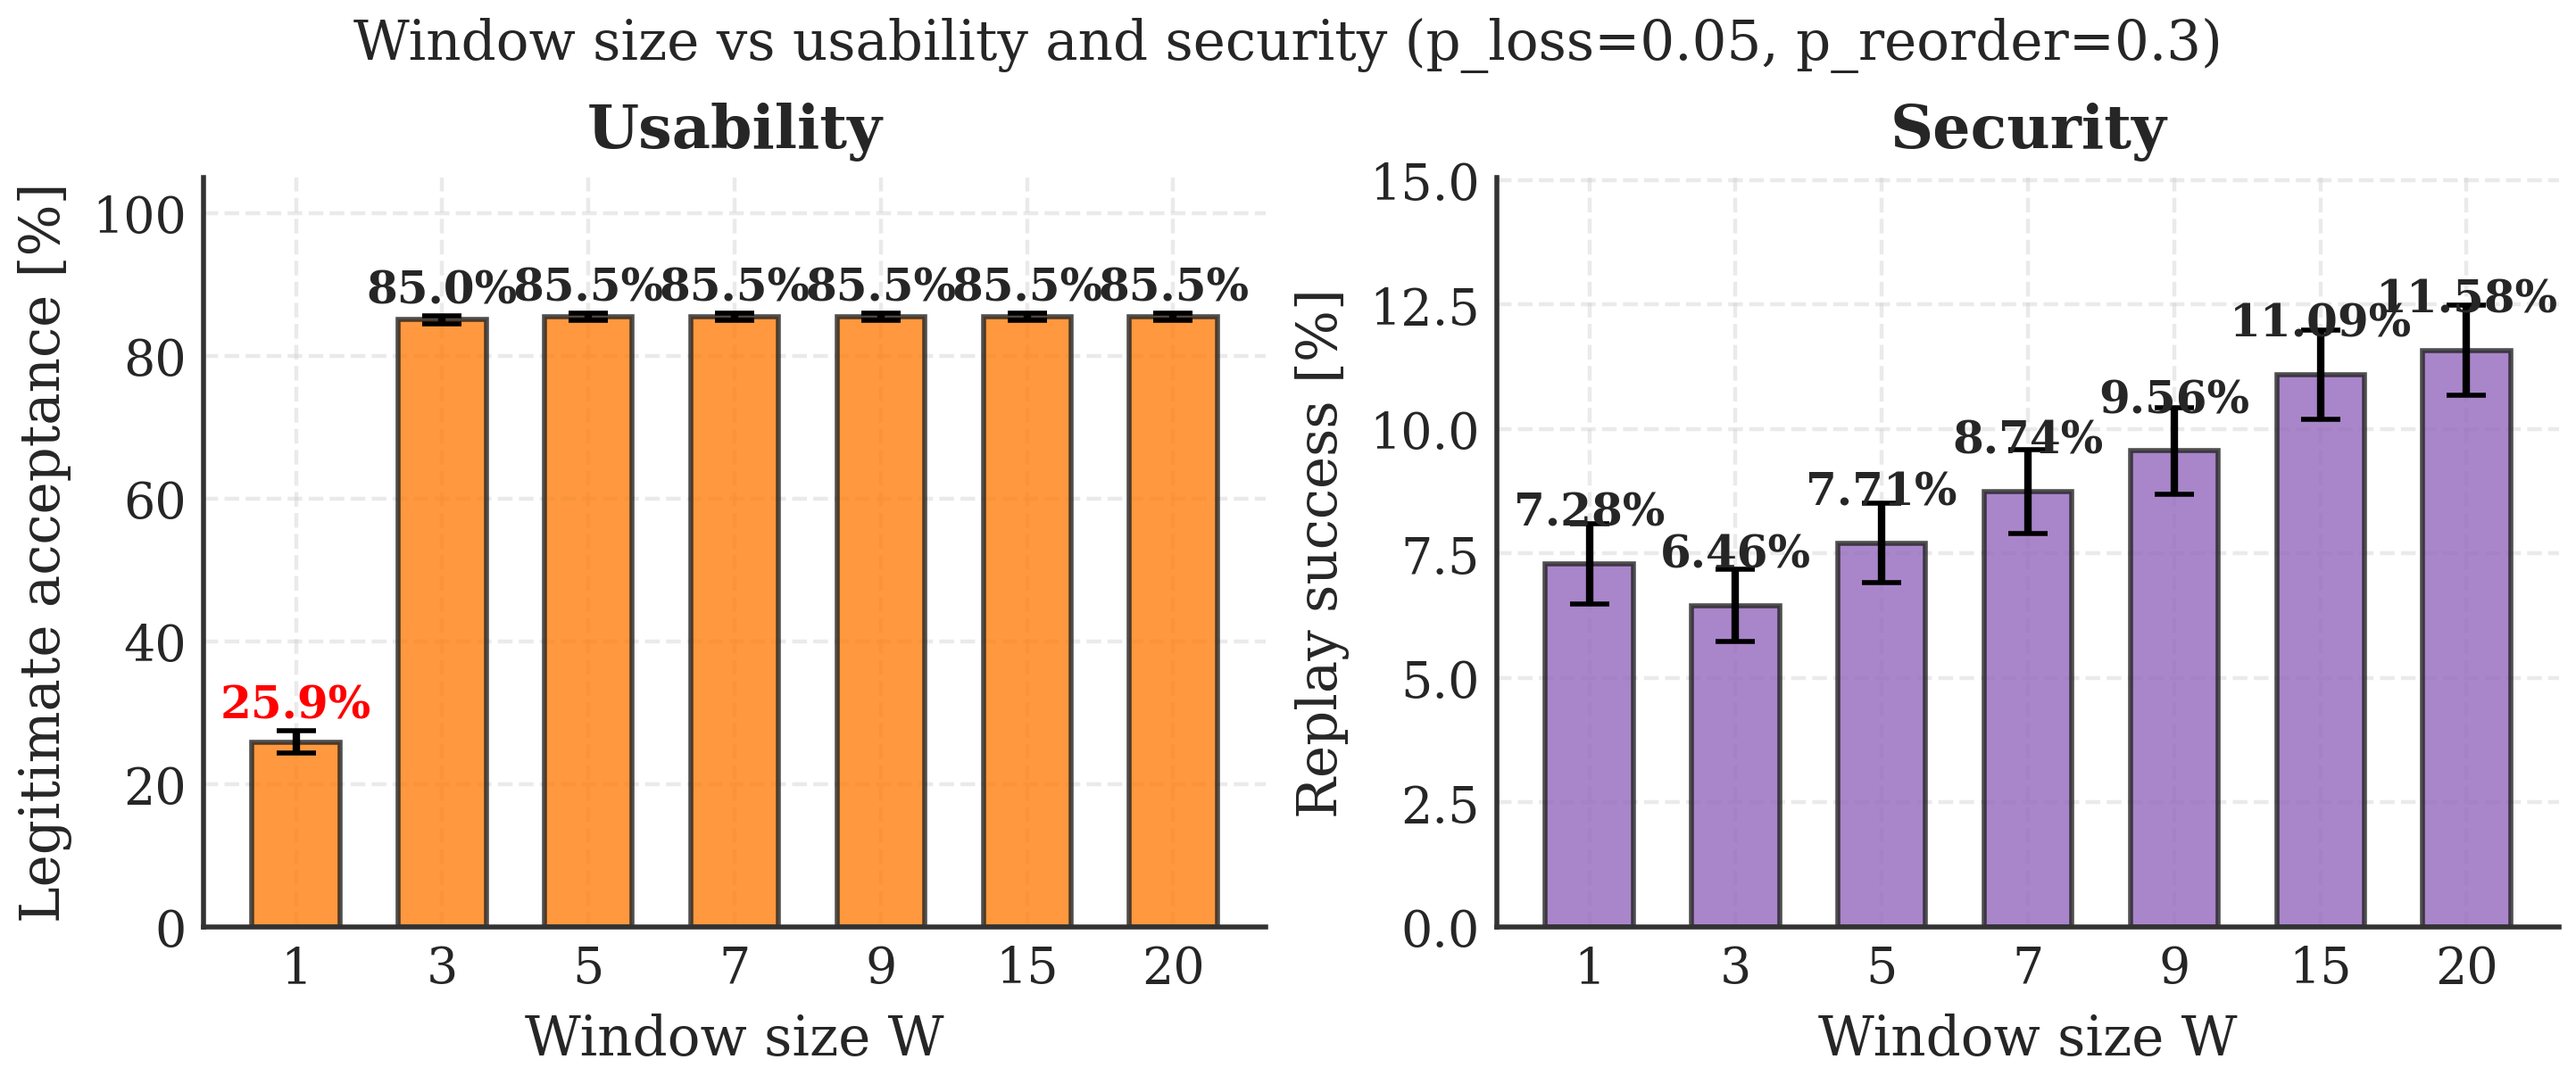
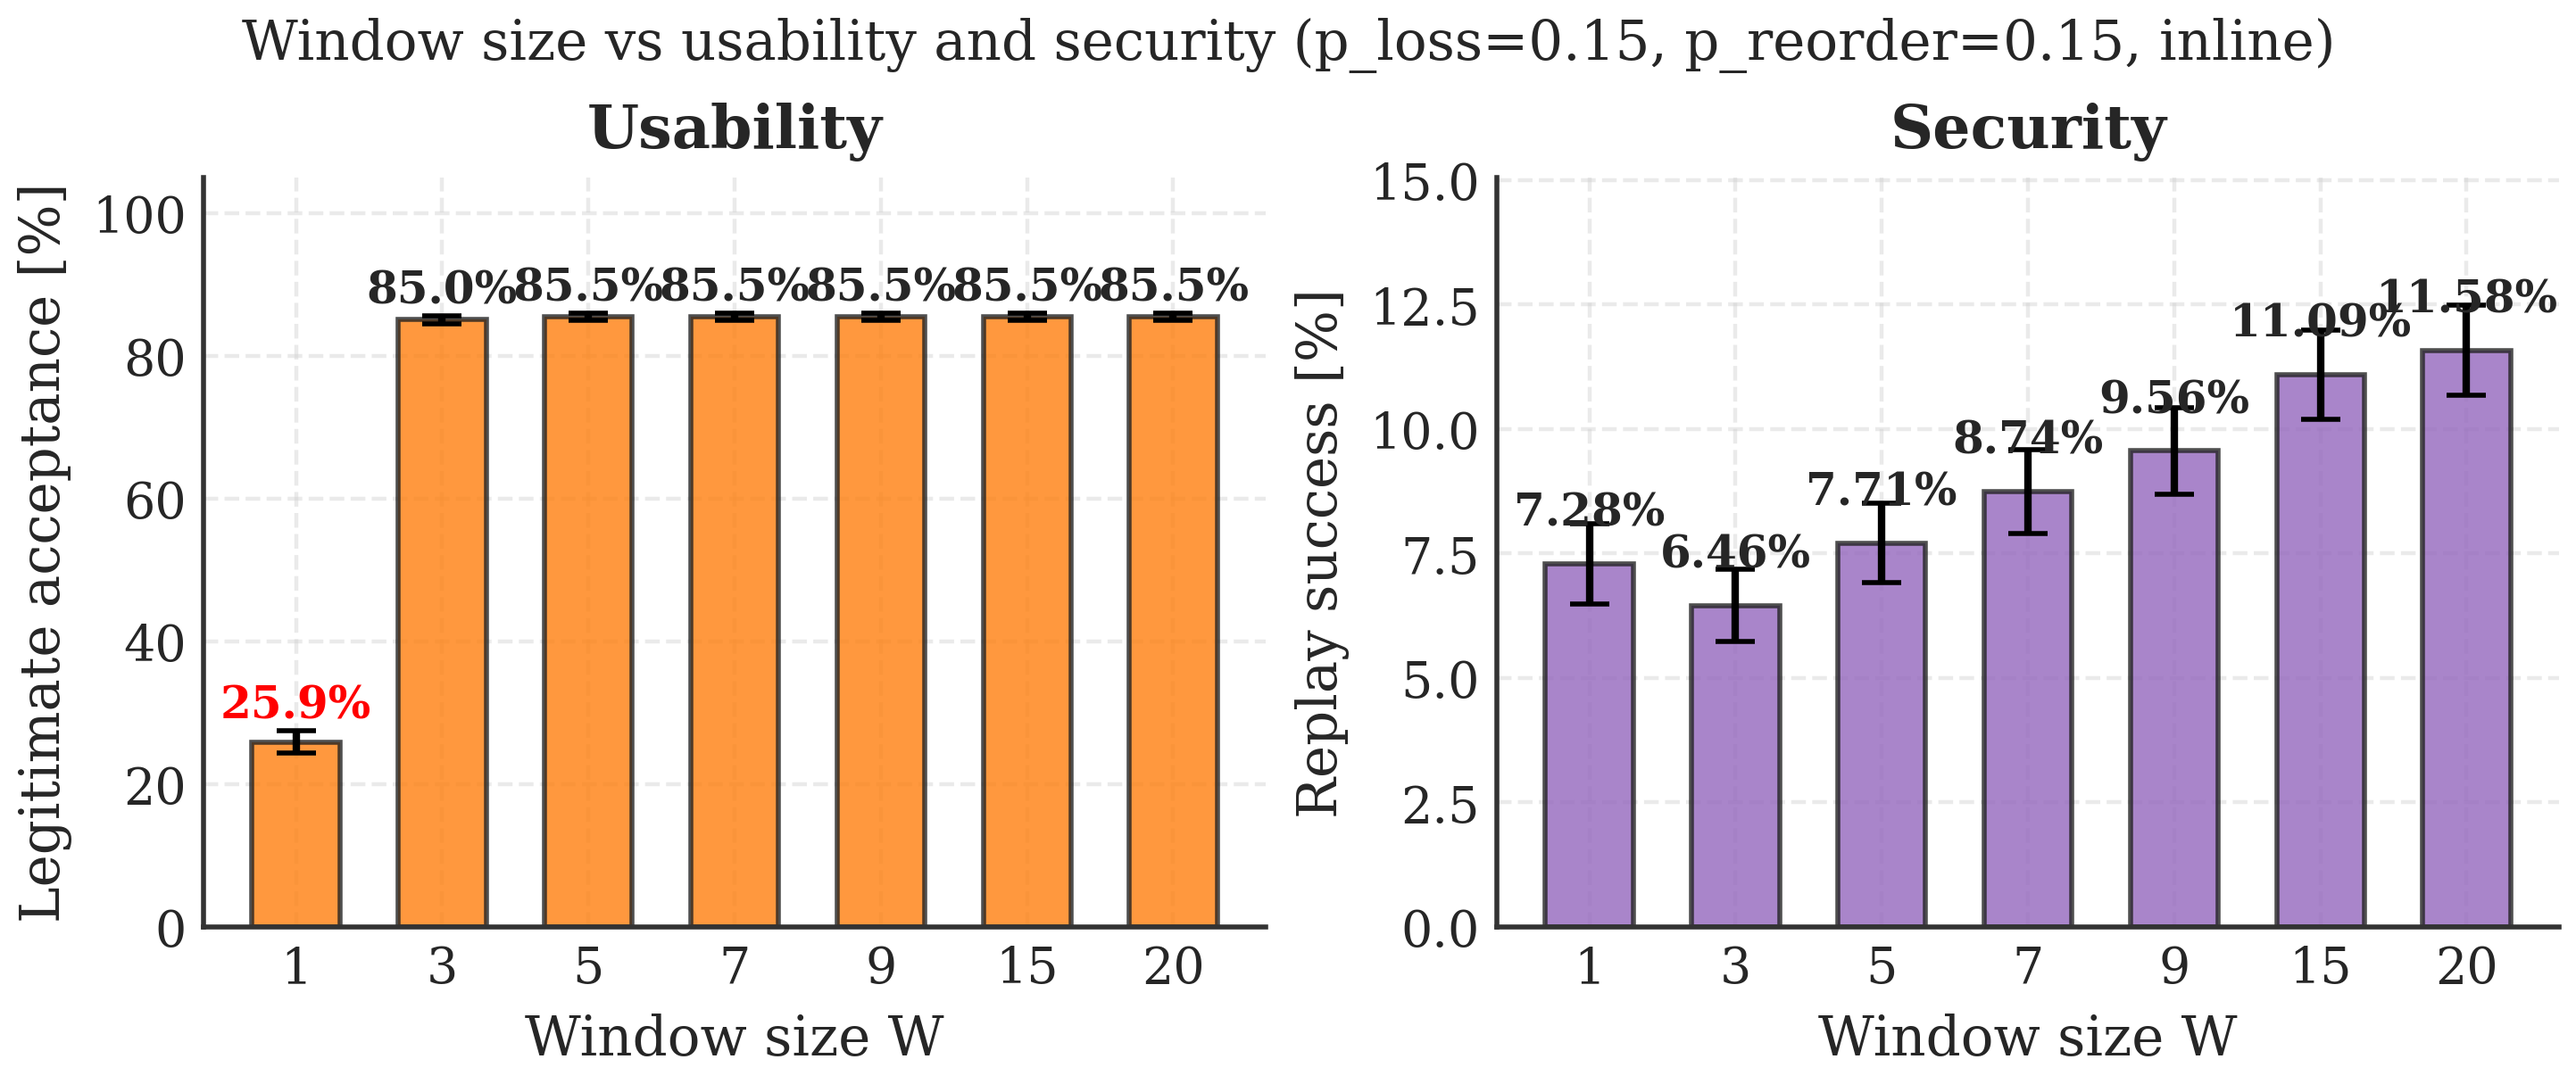
fix: 统一实验3的条件描述与实际数据
- 修复 plot_results.py 中窗口图表标题（0.05/0.3 → 0.15/0.15）
- 更新三语README中窗口扫描表格数据与window_sweep.json一致
- 重新生成 window_tradeoff.png 图表
- 条件统一为：p_loss=0.15, p_reorder=0.15, inline攻击

Changed region(s): [[0.0936, 0.0, 0.9044, 0.0609]]

diff --git a/scripts/plot_results.py b/scripts/plot_results.py
@@ -392,7 +392,7 @@ def plot_window_tradeoff(data: List[Dict], width: float, save_kwargs: dict) -> N
         
     apply_axes_style(ax2)
 
-    fig.suptitle("Window size vs usability and security (p_loss=0.05, p_reorder=0.3)", fontsize=11)
+    fig.suptitle("Window size vs usability and security (p_loss=0.15, p_reorder=0.15, inline)", fontsize=11)
     save_figure(fig, stem="window_tradeoff", **save_kwargs)
 
 

diff --git a/README.md b/README.md
@@ -668,17 +668,20 @@ Related data files:
 | 0.10   | 89.90%      | 89.90%           |
 | 0.20   | 79.53%      | 79.53%           |
 
-### Window sweep (Stress test: p_loss=0.05, p_reorder=0.3)
-*Comparing usability vs security trade-offs under harsh channel conditions.*
+### Window sweep (Stress test: p_loss=0.15, p_reorder=0.15, inline attack)
+*Comparing usability vs security trade-offs under moderate network stress.*
 
 | Window W | Legitimate (%) | Replay success (%) |
 | -------- | -------------- | ------------------ |
-| 1        | 27.65%         | 4.51%              |
-| 3        | 95.10%         | 0.22%              |
-| 5        | 95.08%         | 0.30%              |
-| 10       | 95.22%         | 0.49%              |
+| 1        | 25.88%         | 7.28%              |
+| 3        | 85.03%         | 6.46%              |
+| 5        | 85.45%         | 7.71%              |
+| 7        | 85.45%         | 8.74%              |
+| 9        | 85.45%         | 9.56%              |
+| 15       | 85.45%         | 11.09%             |
+| 20       | 85.45%         | 11.58%             |
 
-*Note: This table comes from an additional sweep (p_loss=0.05, p_reorder=0.3, post attack). The main text’s Experiment 3 uses the stricter condition p_loss=0.15, p_reorder=0.15 with inline (real-time) attacks—see PRESENTATION_EN.md for details.*
+*Note: This table data comes from `results/window_sweep.json`, consistent with Experiment 3 and the figure `window_tradeoff.png`.*
 
 ### Ideal channel baseline (post attack, runs = 500, p_loss = 0)
 *Reference baseline from `results/ideal_p0.json`*

diff --git a/README_CH.md b/README_CH.md
@@ -635,18 +635,21 @@ _两种模式在纯数据包丢失下均线性退化，但表现相似。_
 | 0.10   | 89.90%      | 89.90%           |
 | 0.20   | 79.53%      | 79.53%           |
 
-### 窗口扫描（压力测试：p_loss=0.05, p_reorder=0.3）
+### 窗口扫描（压力测试：p_loss=0.15, p_reorder=0.15, inline攻击）
 
-_在恶劣信道条件下比较可用性与安全性的权衡。_
+_在中等网络压力下比较可用性与安全性的权衡。_
 
 | Window W | 合法接受率 (%) | 重放成功率 (%) |
 | -------- | -------------- | -------------- |
-| 1        | 27.65%         | 4.51%          |
-| 3        | 95.10%         | 0.22%          |
-| 5        | 95.08%         | 0.30%          |
-| 10       | 95.22%         | 0.48%          |
+| 1        | 25.88%         | 7.28%          |
+| 3        | 85.03%         | 6.46%          |
+| 5        | 85.45%         | 7.71%          |
+| 7        | 85.45%         | 8.74%          |
+| 9        | 85.45%         | 9.56%          |
+| 15       | 85.45%         | 11.09%         |
+| 20       | 85.45%         | 11.58%         |
 
-*注：本表来自附加扫描条件（p_loss=0.05, p_reorder=0.3, post攻击）。主文实验3的严格条件为p_loss=0.15, p_reorder=0.15, 实时混入攻击，详见PRESENTATION_CH.md。*
+*注：本表数据来自 `results/window_sweep.json`，与实验3及图表 `window_tradeoff.png` 的条件一致。*
 
 ### 理想信道基线（后运行攻击，runs = 500，p_loss = 0）
 
